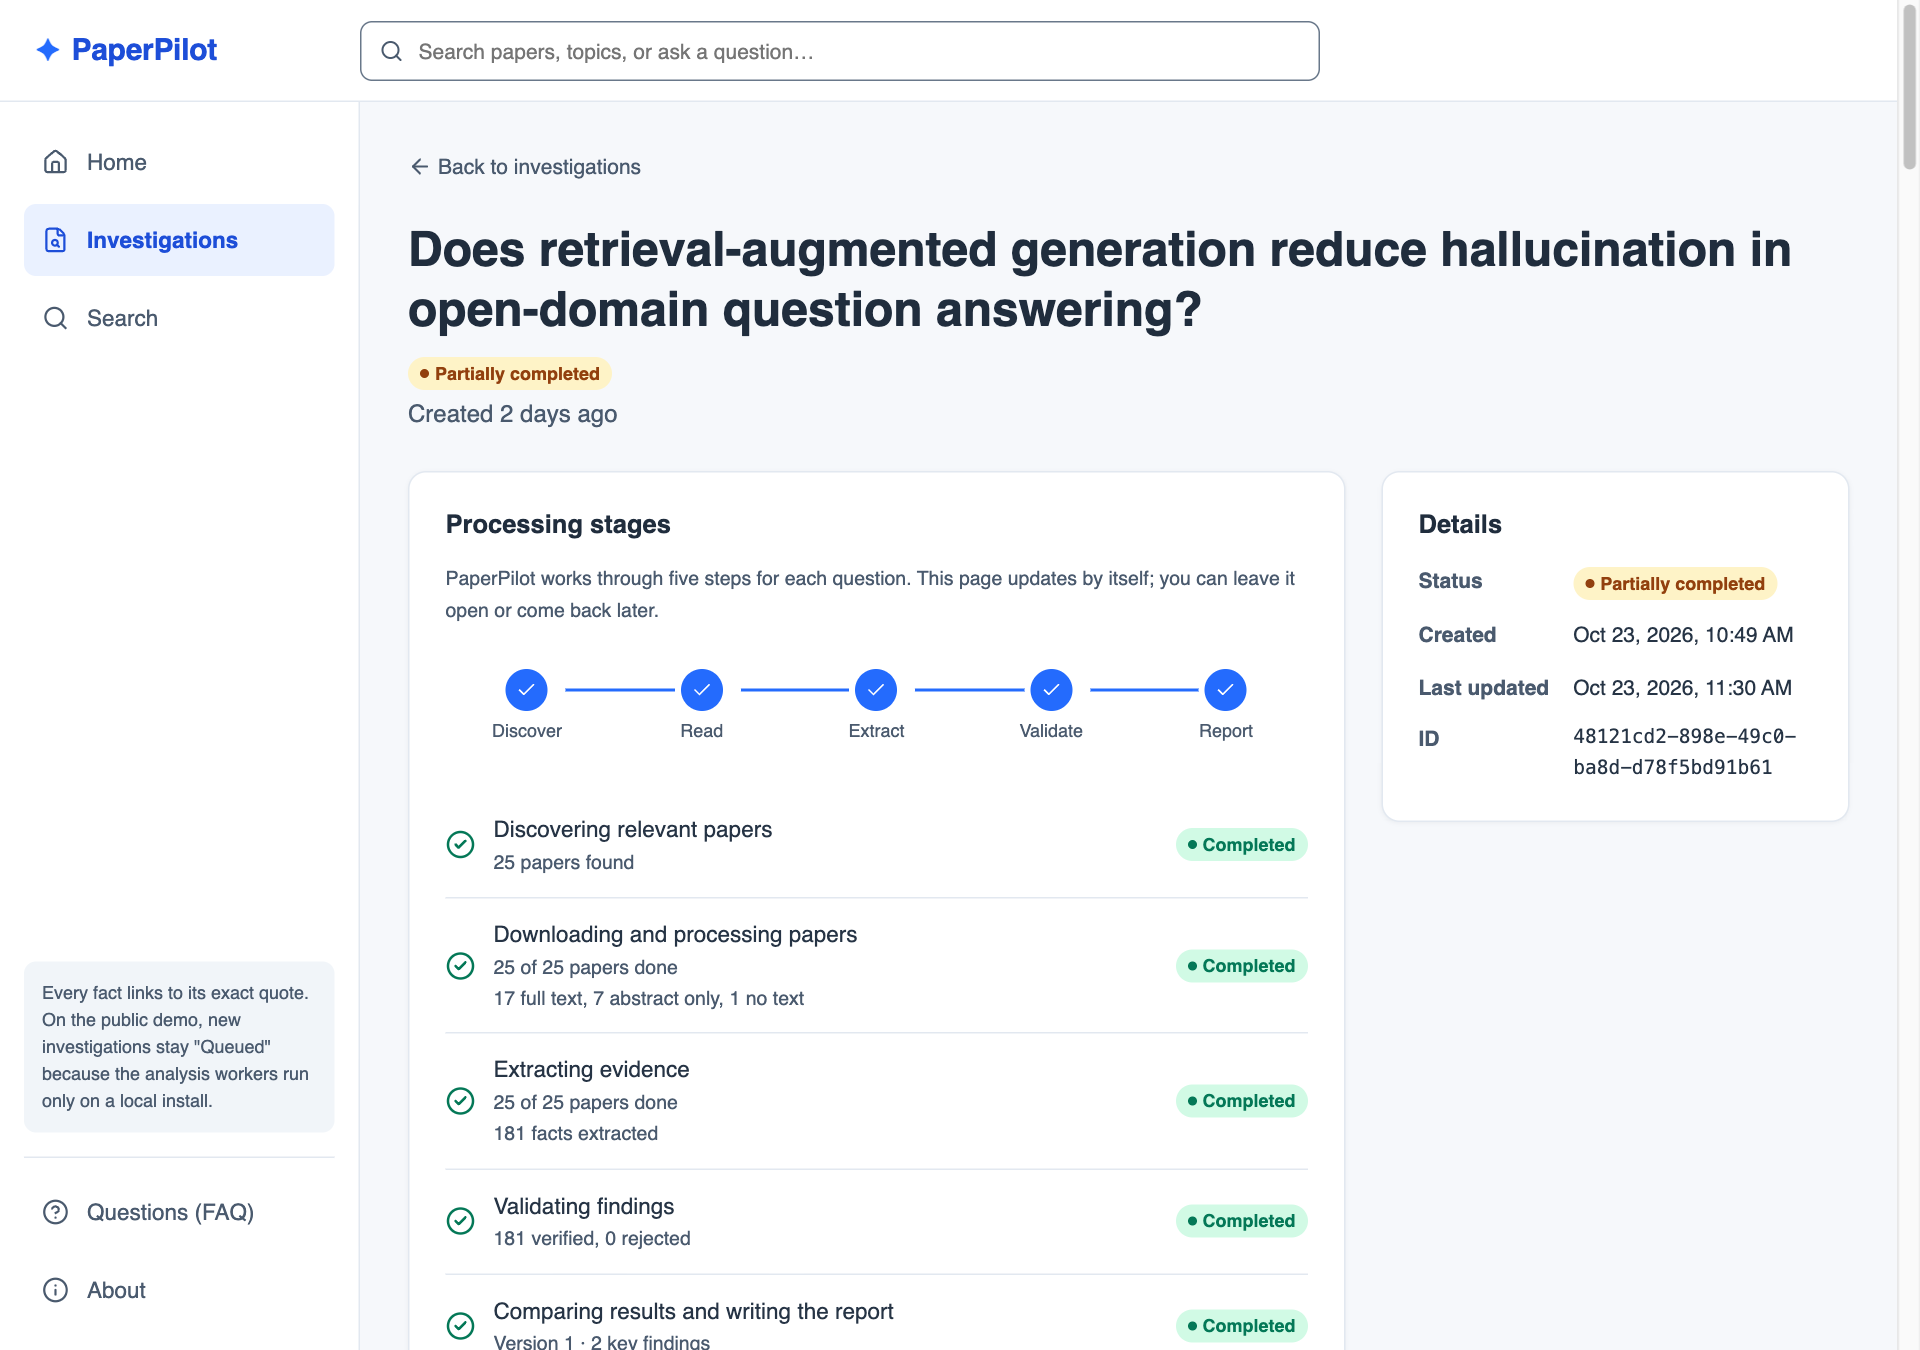
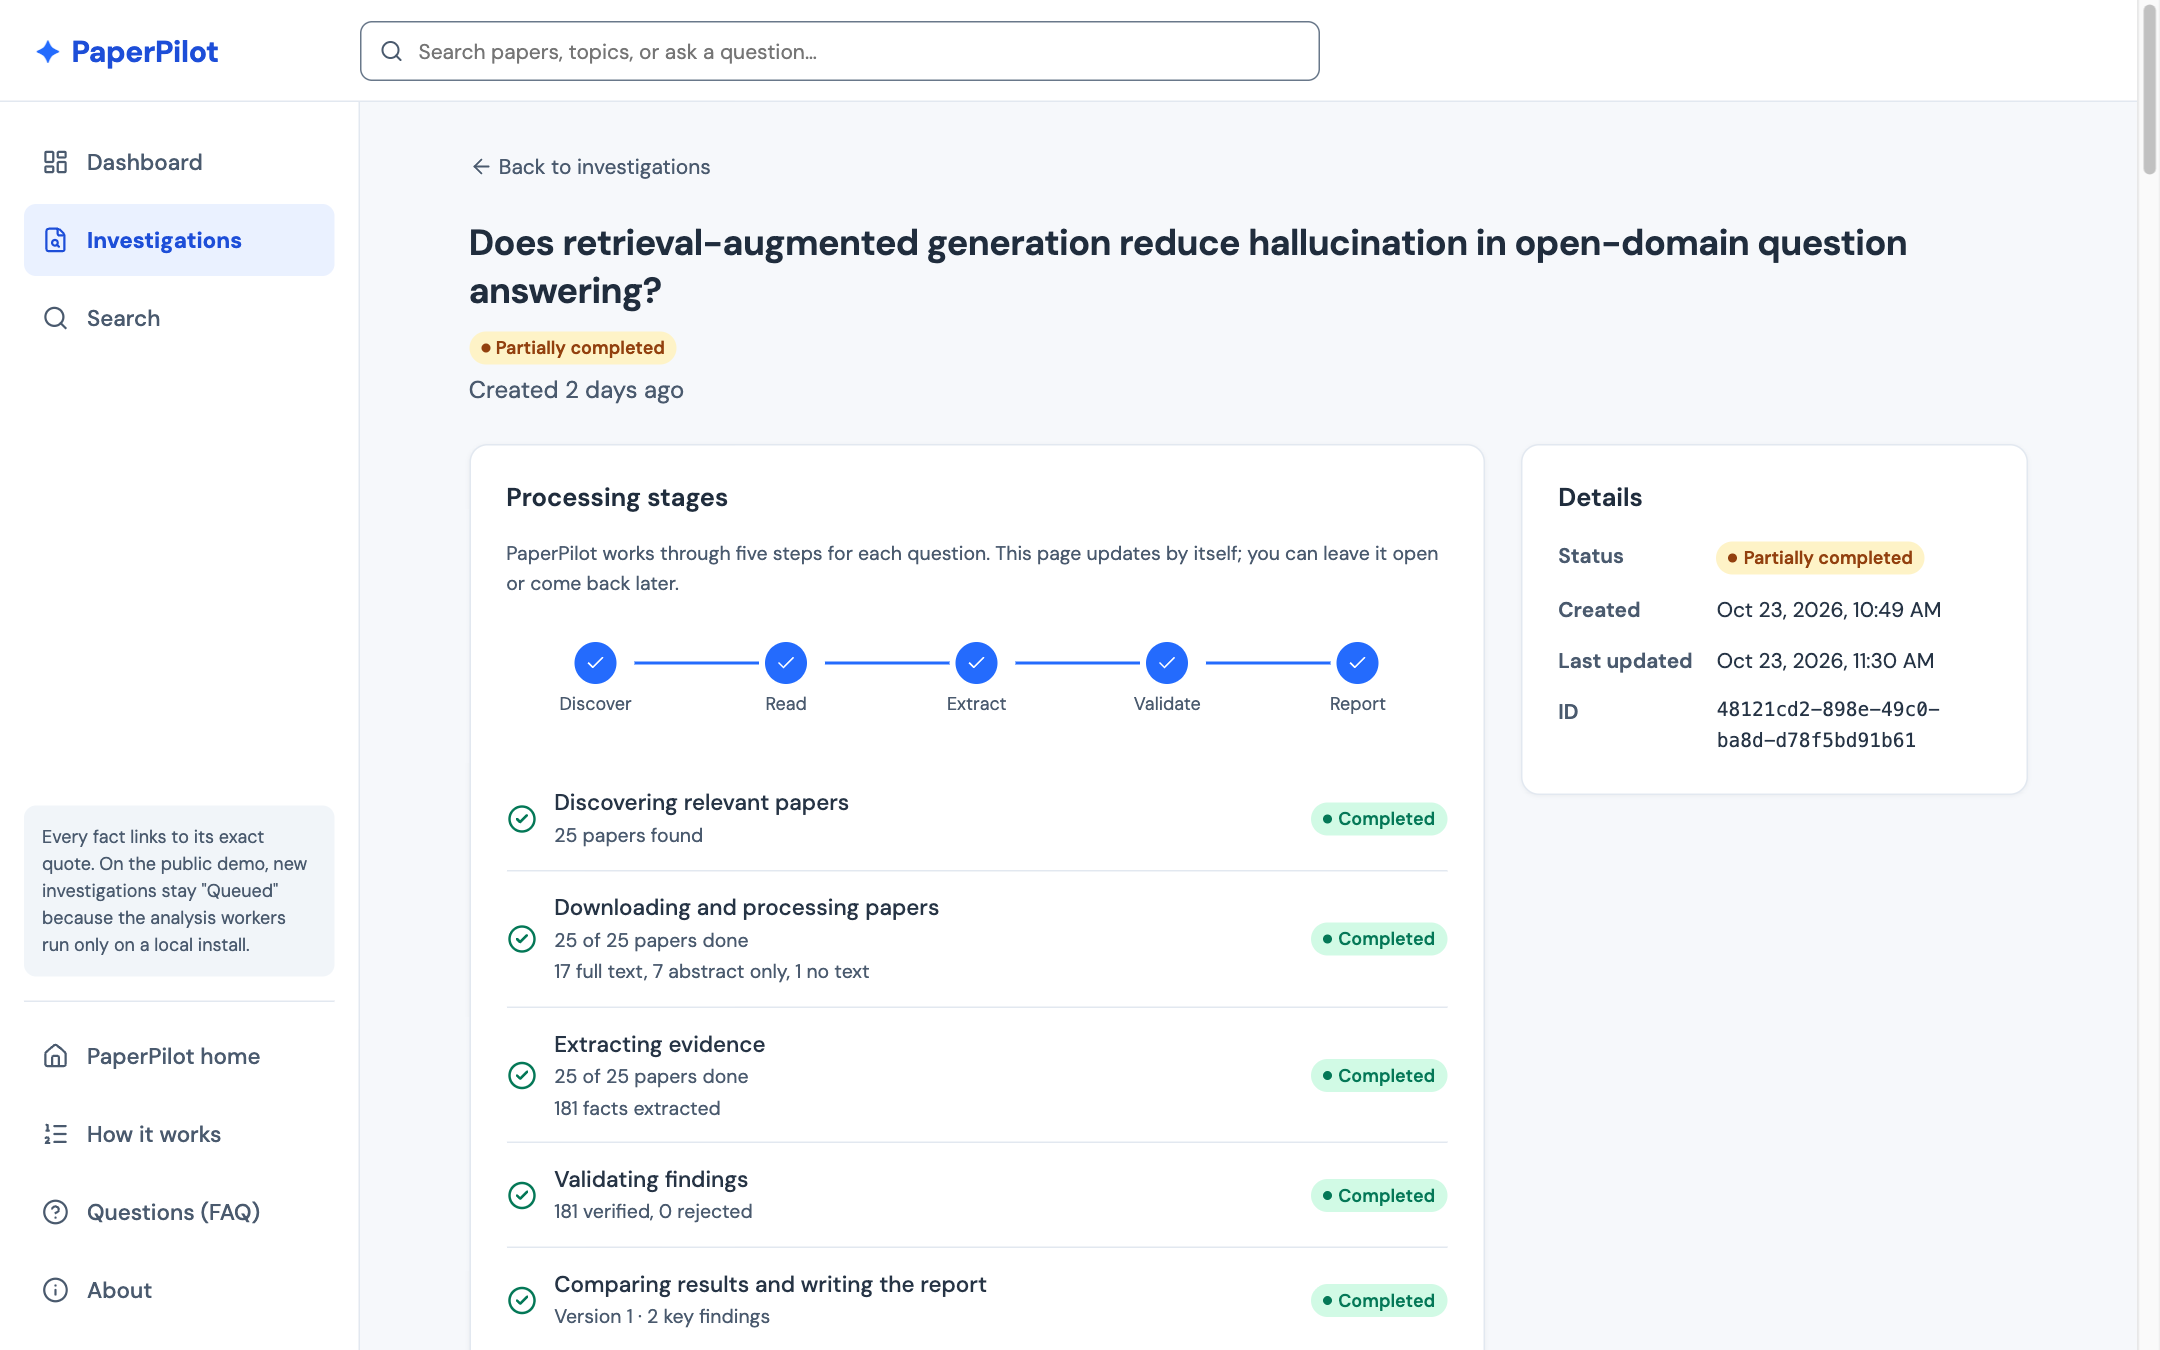
docs: refresh README and demo screenshots for the redesigned UI
Retake every screenshot from the current interface (blue palette, DM Sans,
top bar, evidence card on the landing page) and mention the four example
reports on the public demo.

diff --git a/README.md b/README.md
@@ -18,9 +18,17 @@ idle can take about a minute). API docs: https://paperpilot-research-api.onrende
 
 PaperPilot evaluates *reported* evidence. It does not prove scientific reproducibility.
 
-| Report summary | Evidence inspector |
+| Landing page | Report summary |
 |---|---|
-| ![Report summary with bottom line, strength label, and findings](docs/screenshots/report-summary.png) | ![Evidence inspector showing the exact quotation, page, provenance, and validation checks](docs/screenshots/evidence-inspector.png) |
+| ![Landing page with a real evidence card, the four steps, and calls to action](docs/screenshots/landing.png) | ![Report summary with bottom line, evidence-strength meter, and findings](docs/screenshots/report-summary.png) |
+
+| Comparison | Evidence inspector |
+|---|---|
+| ![Comparison matrix; results are compared only when metric, dataset, and protocol match](docs/screenshots/report-comparison.png) | ![Evidence inspector showing the exact quotation, page, provenance, and validation checks](docs/screenshots/evidence-inspector.png) |
+
+The public demo has four finished example reports (real local runs) you can open from the
+landing page: "See a finished example". New questions on the public site stay queued, because
+free hosting cannot run the workers.
 
 Five-minute walkthrough: [docs/demo.md](docs/demo.md).
 

diff --git a/docs/demo.md b/docs/demo.md
@@ -68,9 +68,17 @@ https://paperpilot-research.onrender.com runs the API and frontend on free tiers
 
 ## Screenshots
 
-| Investigation progress | Landing page |
+| Landing page | New investigation |
 |---|---|
-| ![Investigation progress stepper](screenshots/investigation-progress.png) | ![Landing page](screenshots/landing.png) |
+| ![Landing page](screenshots/landing.png) | ![New investigation form with sources and limits](screenshots/new-investigation.png) |
+
+| Investigation progress | FAQ |
+|---|---|
+| ![Investigation progress stepper](screenshots/investigation-progress.png) | ![FAQ accordion](screenshots/faq.png) |
+
+| About | Landing on a phone |
+|---|---|
+| ![About page](screenshots/about.png) | ![Landing page on a phone](screenshots/landing-mobile.png) |
 
 | Report summary (level 1–2) | Evidence inspector (level 3, drawer) |
 |---|---|
